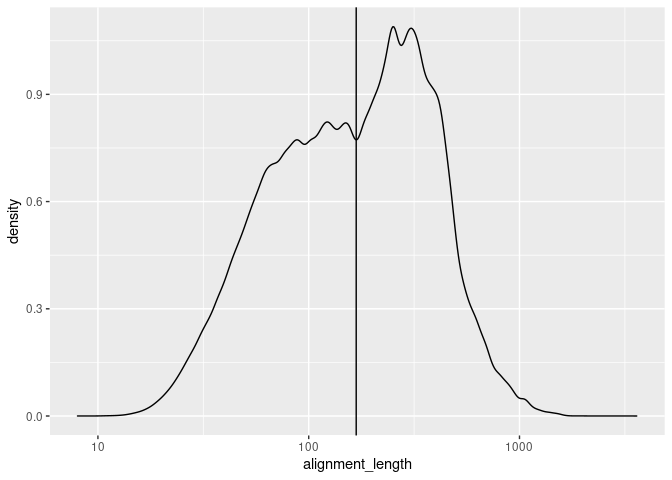
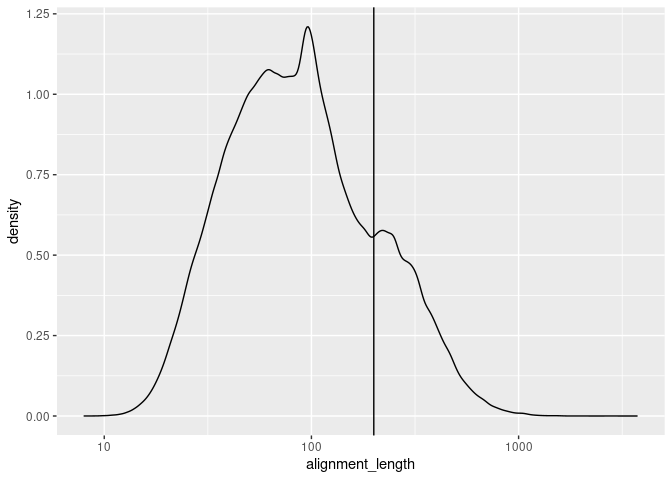
all data but sags

diff --git a/R/main_reanalysis.md b/R/main_reanalysis.md
@@ -19,7 +19,7 @@ Example analysis for Kaelyn’s Big Blast project
     4.  Make a density plot using `ggplot()` and `geom_density()` of all
         of those sequence lengths, colored by data source
 2.  For each .csv file of top hits, filter out the sequences shorter
-    than your cutoff, using `filter()`
+    than your cutoff, using `filter()` Ignore sag and sags
 
 <!-- end list -->
 
@@ -38,8 +38,8 @@ arc_is <- read_csv("/srv/data/big_blast/results/JGI_arc_isolates_top_bitscores.c
 arc_mags <- read_csv("/srv/data/big_blast/results/JGI_arc_mags_top_bitscores.csv")
 bac_is <- read_csv("/srv/data/big_blast/results/JGI_bac_isolates_top_bitscores.csv")
 bac_mag <- read_csv("/srv/data/big_blast/results/JGI_bac_mags_top_bitscores.csv")
-sags <- read_csv("/srv/data/big_blast/results/JGI_SAGs_top_bitscore.csv")
-sag <- read_csv("/srv/data/big_blast/results/JGI_SAGs_top_bitscores.csv")
+# not using sags <- read_csv("/srv/data/big_blast/results/JGI_SAGs_top_bitscore.csv")
+# not using sag <- read_csv("/srv/data/big_blast/results/JGI_SAGs_top_bitscores.csv")
 meta <- read_csv("/srv/data/big_blast/results/Metagenomes_top_bitscores.csv")
 
 p_arc_is <- ggplot(arc_is, aes(x=alignment_length)) + 
@@ -82,26 +82,18 @@ print(p_bac_mag)
 ![](main_reanalysis_files/figure-gfm/arc_check-4.png)<!-- -->
 
 ``` r
-p_sags <- ggplot(sags, aes(x=alignment_length)) +
-  geom_density() +
-  geom_vline(xintercept = 168)+
-  scale_x_log10()
-print(p_sags)
-```
+# p_sags <- ggplot(sags, aes(x=alignment_length)) +
+#   geom_density() +
+#   geom_vline(xintercept = 168)+
+#   scale_x_log10()
+# print(p_sags)
+# 
+# p_sag <- ggplot(sag, aes(x=alignment_length)) +
+#   geom_density() +
+#   geom_vline(xintercept = 170)+
+#   scale_x_log10()
+# print(p_sag)
 
-![](main_reanalysis_files/figure-gfm/arc_check-5.png)<!-- -->
-
-``` r
-p_sag <- ggplot(sag, aes(x=alignment_length)) +
-  geom_density() +
-  geom_vline(xintercept = 170)+
-  scale_x_log10()
-print(p_sag)
-```
-
-![](main_reanalysis_files/figure-gfm/arc_check-6.png)<!-- -->
-
-``` r
 p_meta <- ggplot(meta, aes(x=alignment_length)) +
   geom_density() +
   geom_vline(xintercept = 200)+
@@ -109,7 +101,7 @@ p_meta <- ggplot(meta, aes(x=alignment_length)) +
 print(p_meta)
 ```
 
-![](main_reanalysis_files/figure-gfm/arc_check-7.png)<!-- -->
+![](main_reanalysis_files/figure-gfm/arc_check-5.png)<!-- -->
 
 Now that we have read in all of the data sets, we want to add a column
 to each saying what the source is.
@@ -119,8 +111,8 @@ arc_is <- arc_is %>% mutate(source = "arc_isolates")
 arc_mags <- arc_mags %>% mutate(source = "arc_mags")
 bac_is <- bac_is %>% mutate(source = "bac_is")
 bac_mag <- bac_mag %>% mutate(source = "bac_mag")
-sags <- sags %>% mutate(source = "sags")
-sag <- sag %>% mutate(source = "sag")
+# sags <- sags %>% mutate(source = "sags")
+# sag <- sag %>% mutate(source = "sag")
 meta <- meta %>% mutate(source = "meta")
 ```
 
@@ -132,7 +124,7 @@ see what they look like on top of each other.
 
 ``` r
 all_data <- arc_is %>%
-  rbind(arc_mags)
+  rbind(arc_mags, bac_mag, meta, arc_is, bac_is)
 
   
 
@@ -141,12 +133,38 @@ all_data <- arc_is %>%
 
 p_dens_combined <- ggplot(all_data, aes(x=alignment_length, color=source)) + 
   geom_density() +
-  geom_vline(xintercept = 170) +
+  geom_vline(xintercept = 171) +
   scale_x_log10()
 print(p_dens_combined)
 ```
 
 ![](main_reanalysis_files/figure-gfm/unnamed-chunk-3-1.png)<!-- -->
+
+``` r
+cutoff <- 170
+all_data_filter <- all_data%>%
+  filter(alignment_length>cutoff)
+# calculate mean bitscore
+bitscore_summary <- all_data_filter %>%
+  group_by(source) %>%
+  summarise(mean.bitscore=mean(bitscore, na.rm=TRUE),
+            sd.bitscore=sd(bitscore, na.rm=TRUE)) 
+```
+
+    ## `summarise()` ungrouping output (override with `.groups` argument)
+
+``` r
+print(bitscore_summary)
+```
+
+    ## # A tibble: 5 x 3
+    ##   source       mean.bitscore sd.bitscore
+    ##   <chr>                <dbl>       <dbl>
+    ## 1 arc_isolates          287.        223.
+    ## 2 arc_mags              257.        202.
+    ## 3 bac_is                301.        264.
+    ## 4 bac_mag               225.        179.
+    ## 5 meta                  216.        170.
 
 # Resources
 
